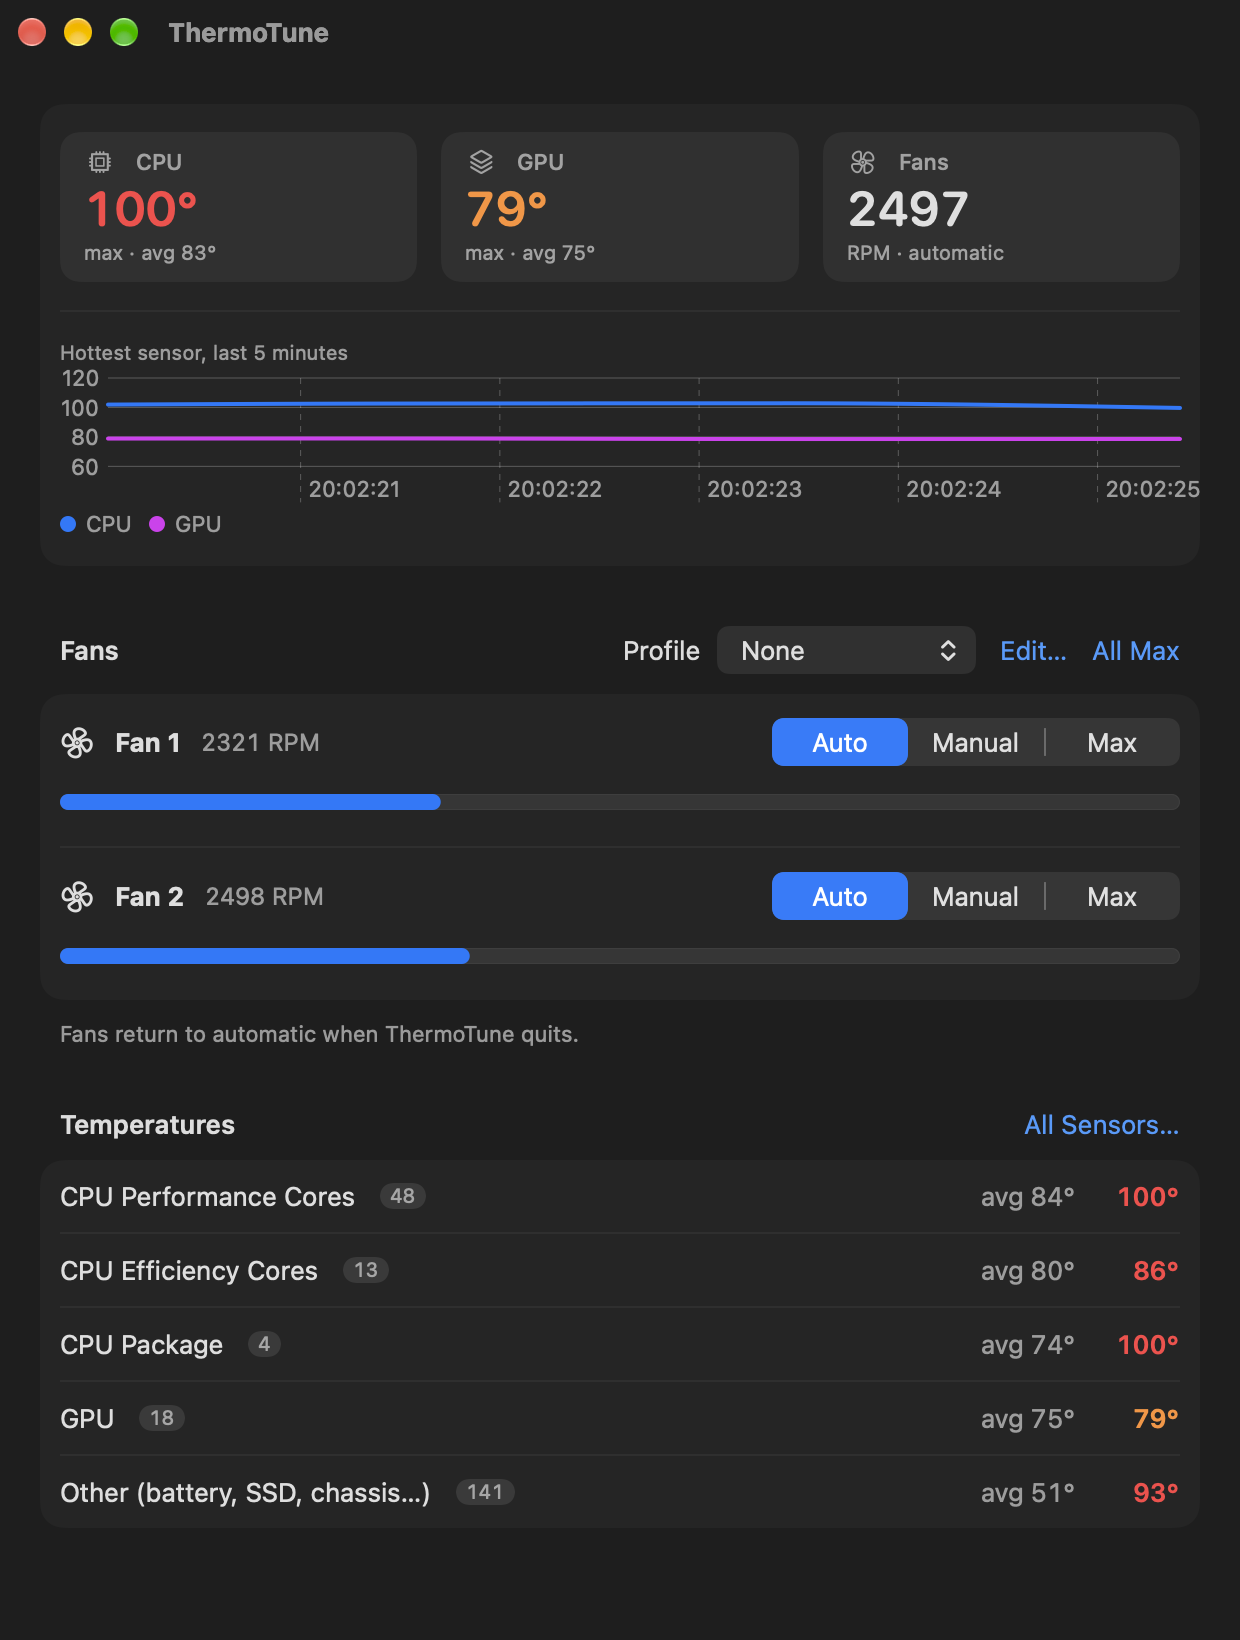
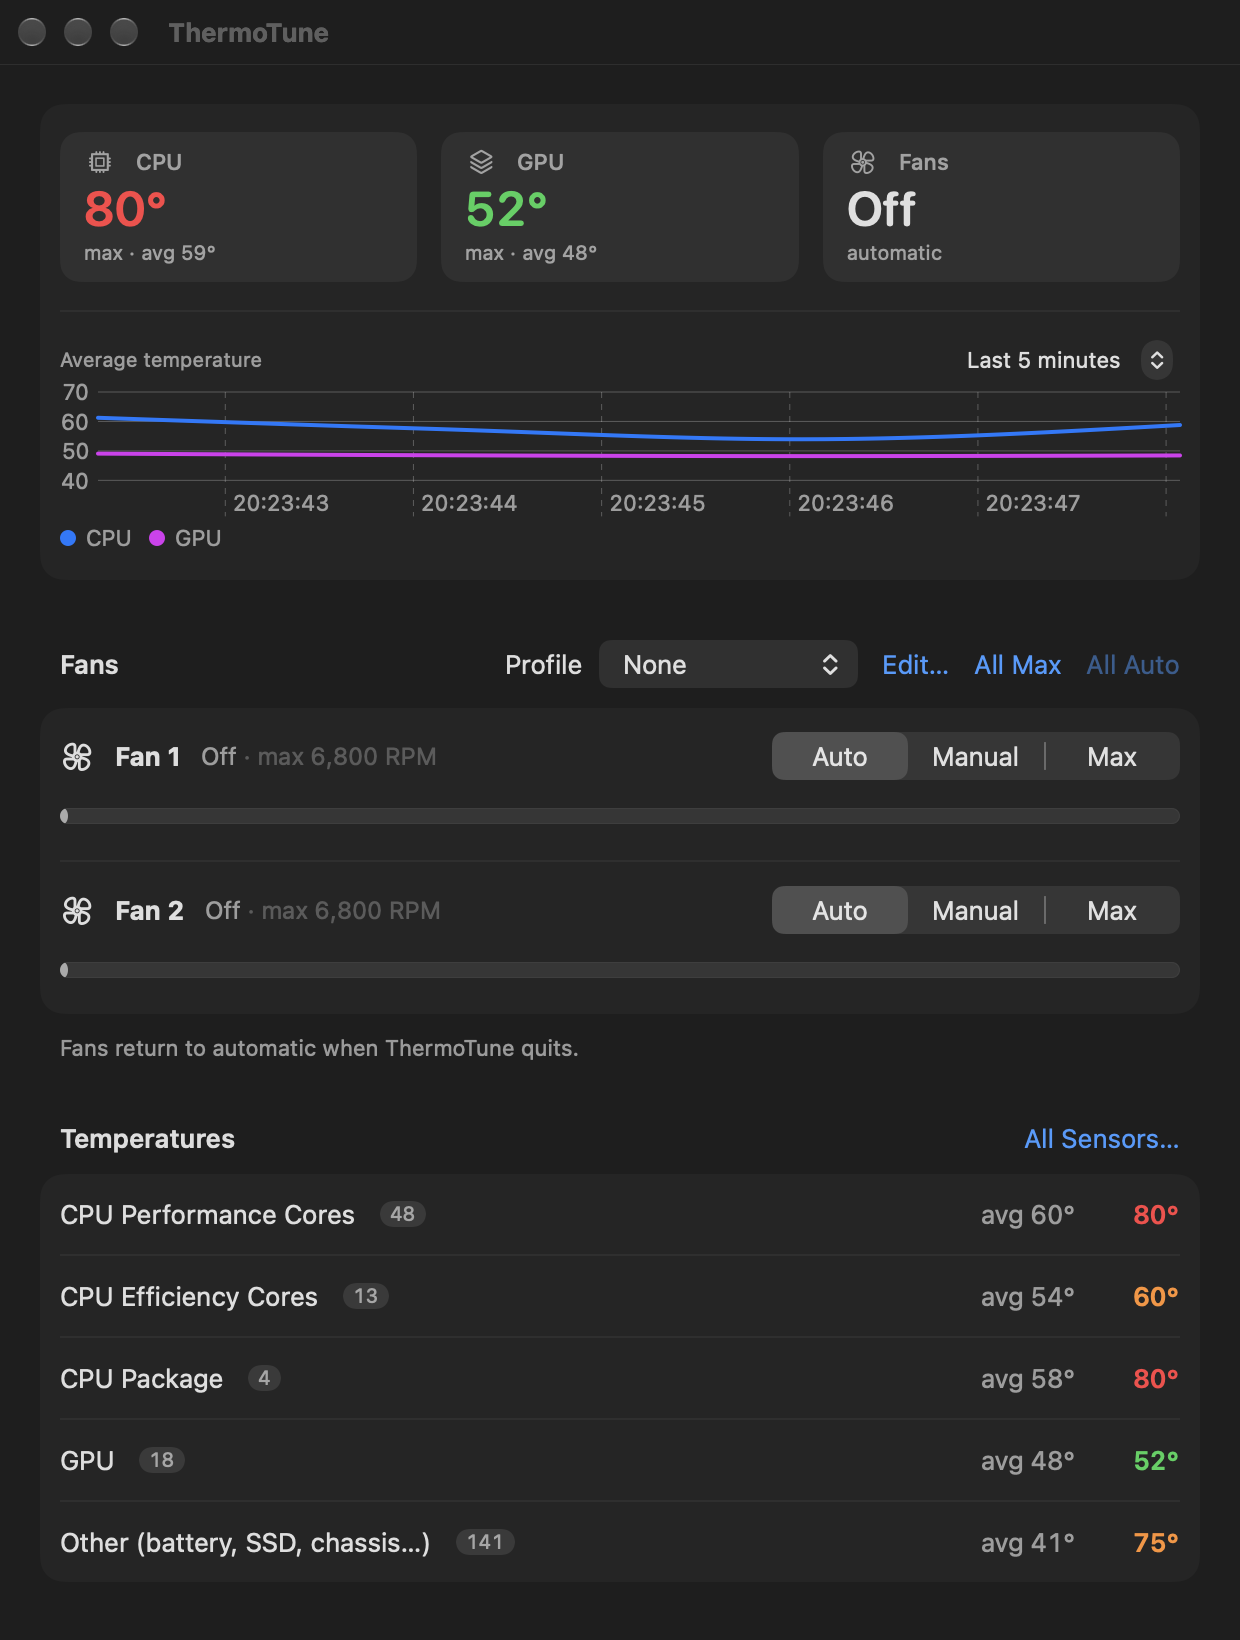
docs: describe the average chart and About tab, refresh the screenshot

diff --git a/README.md b/README.md
@@ -9,7 +9,7 @@ SwiftUI app that reads the System Management Controller (SMC) directly: no kerne
 no background daemons, no third-party code.
 
 <p align="center">
-  <img src="docs/main-window.png" width="520" alt="ThermoTune's main window: CPU, GPU and fan tiles, a temperature chart, per-fan Auto/Manual/Max controls, and temperatures grouped by sensor type">
+  <img src="docs/main-window.png" width="520" alt="ThermoTune's main window: CPU, GPU and fan tiles, an average-temperature chart, per-fan Auto/Manual/Max controls with each fan's top speed, and temperatures grouped by sensor type">
 </p>
 
 > [!WARNING]
@@ -22,7 +22,7 @@ no background daemons, no third-party code.
 
 - **Temperatures:** finds every temperature sensor your Mac has. Shows the hottest and average
   reading for the CPU (performance and efficiency cores separately on Apple silicon) and the
-  GPU, plus a 5-minute chart. Hover over a group's temperatures to see every sensor behind
+  GPU, plus a chart of the average CPU and GPU temperature over the last 1 to 60 minutes. Hover over a group's temperatures to see every sensor behind
   them, or open **All Sensors…** for the full list.
 - **Fan control:** see each fan's current and maximum speed, and set it to **Auto** (macOS
   decides), **Manual** (pick a speed with a slider) or **Max**. **All Max** and **All Auto**
@@ -39,7 +39,8 @@ no background daemons, no third-party code.
 - **Menu bar:** a live temperature in the menu bar, with a quick panel for profiles and fan
   actions. ThermoTune keeps running there after you close its window.
 - **Preferences (⌘,):** launch at login, °C or °F, refresh rate, which temperature the menu bar
-  shows, and what happens to the fans when you quit.
+  shows, and what happens to the fans when you quit. The About tab has the version, license
+  and links to the source.
 
 ## Requirements
 
